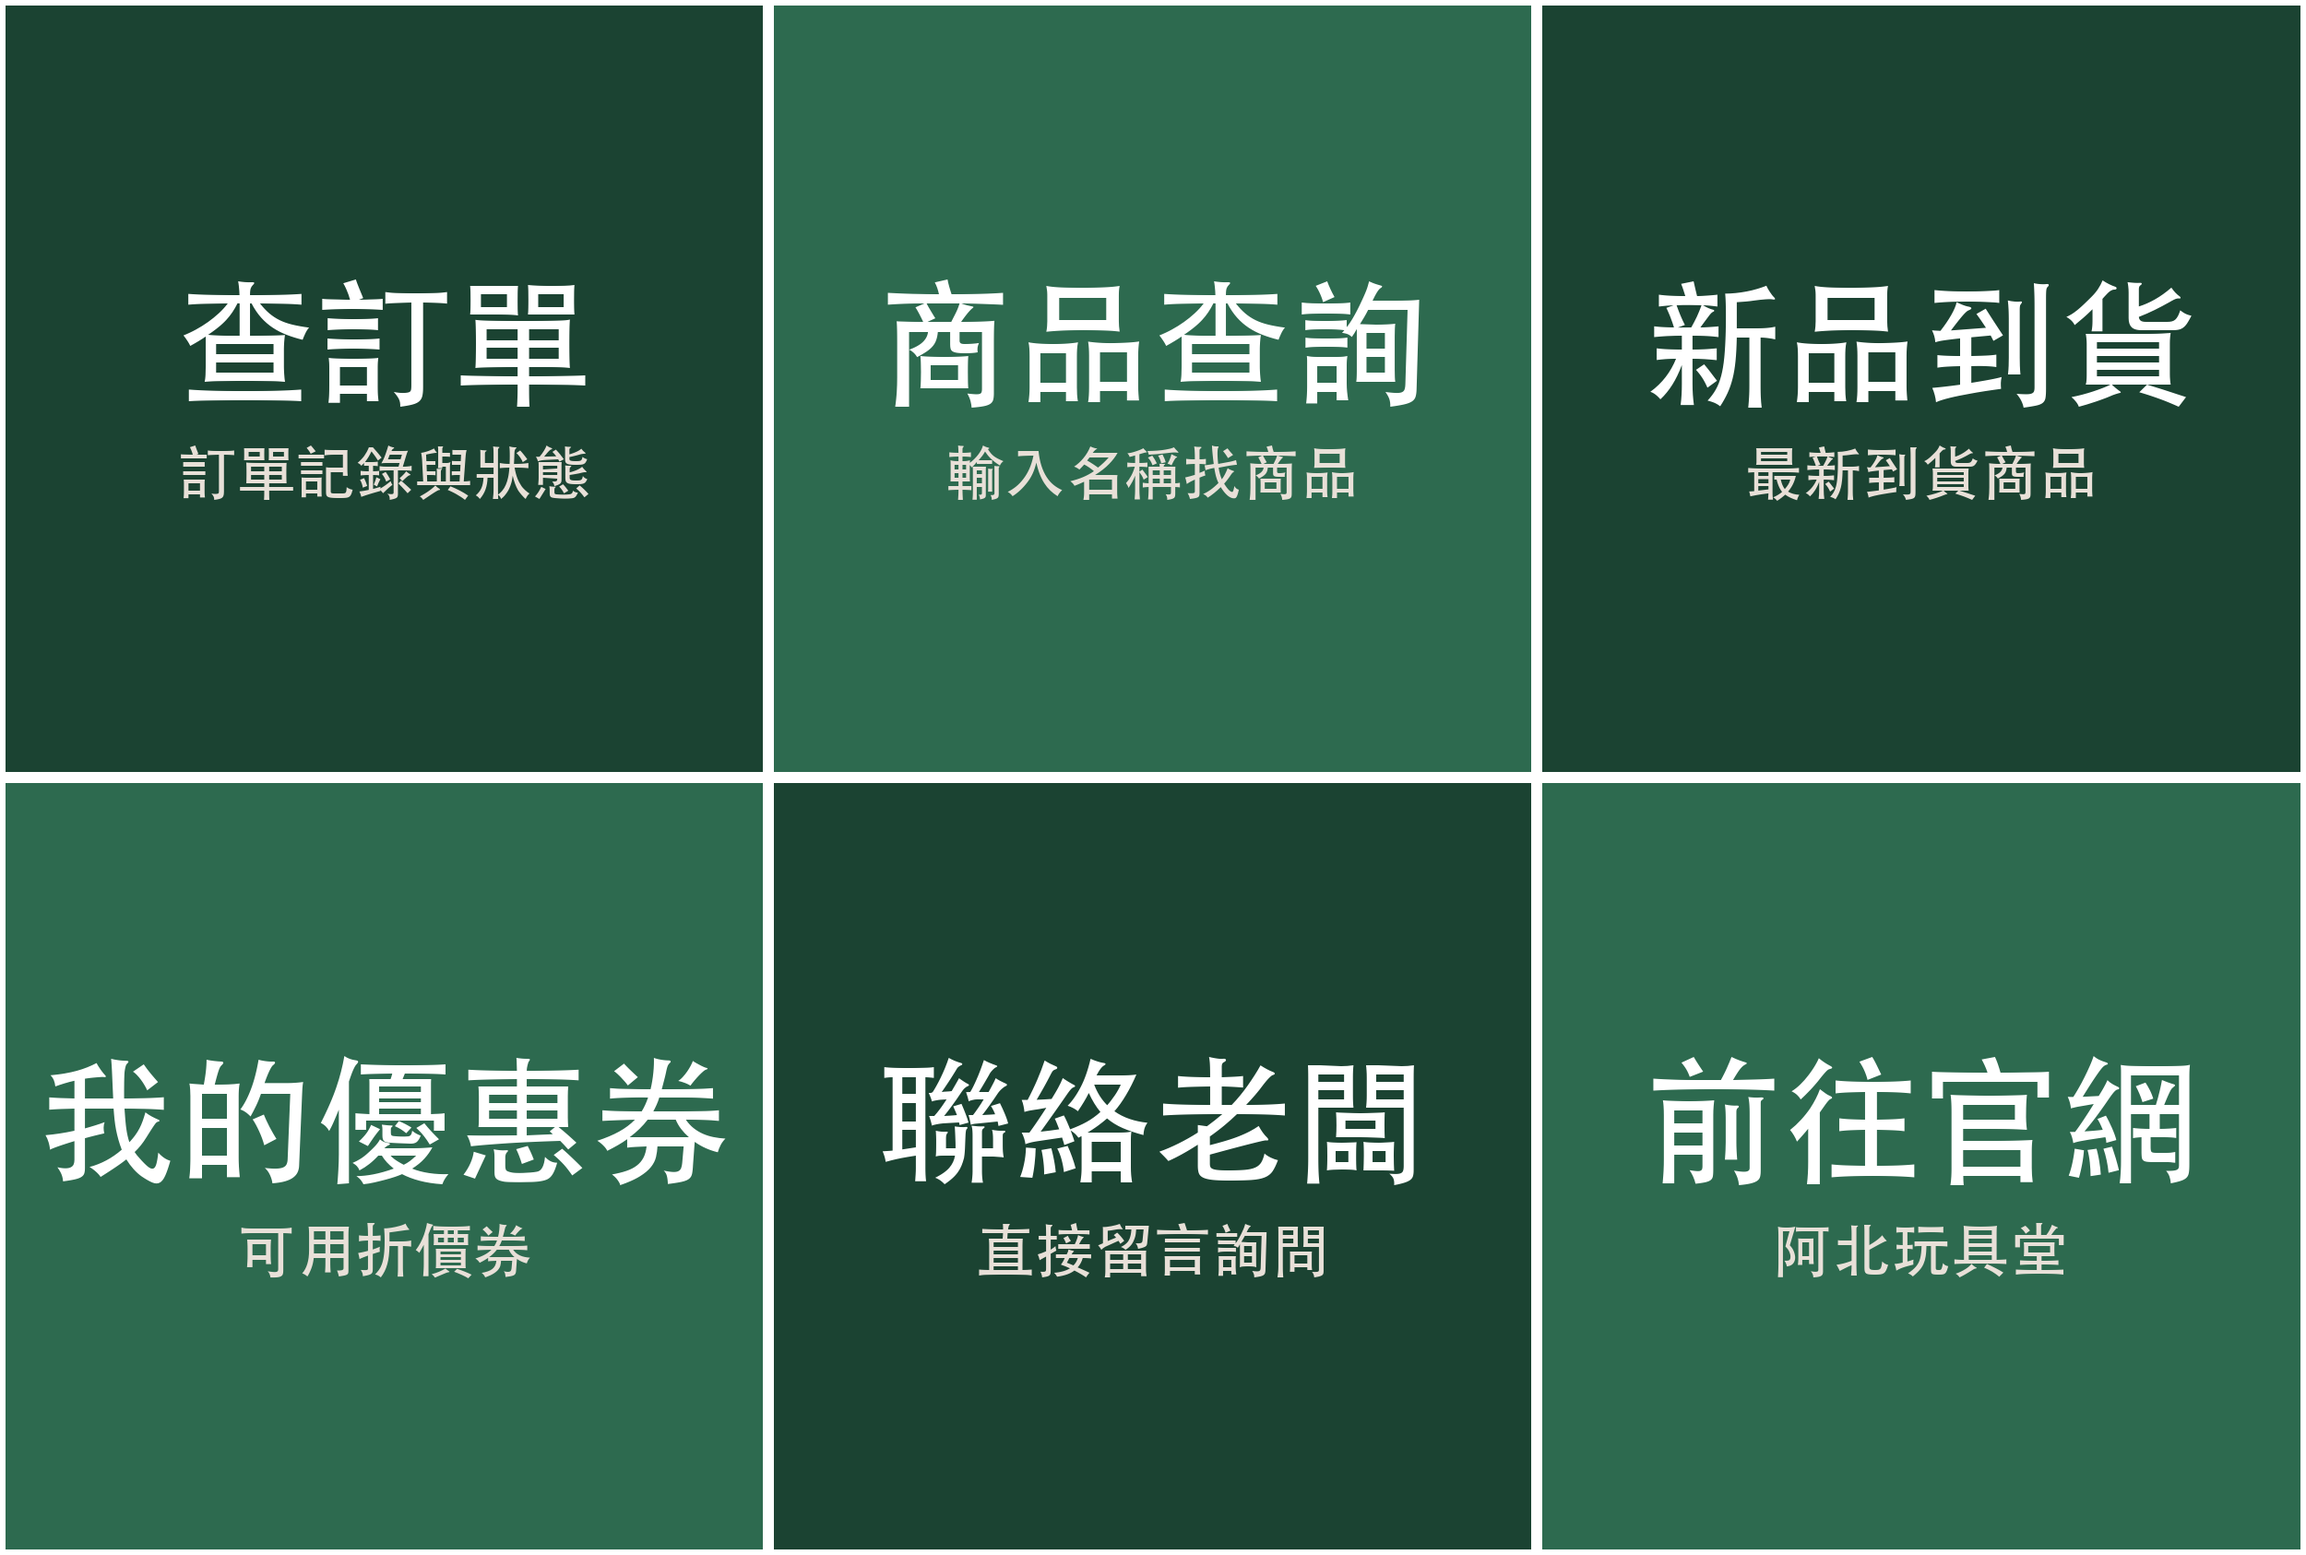
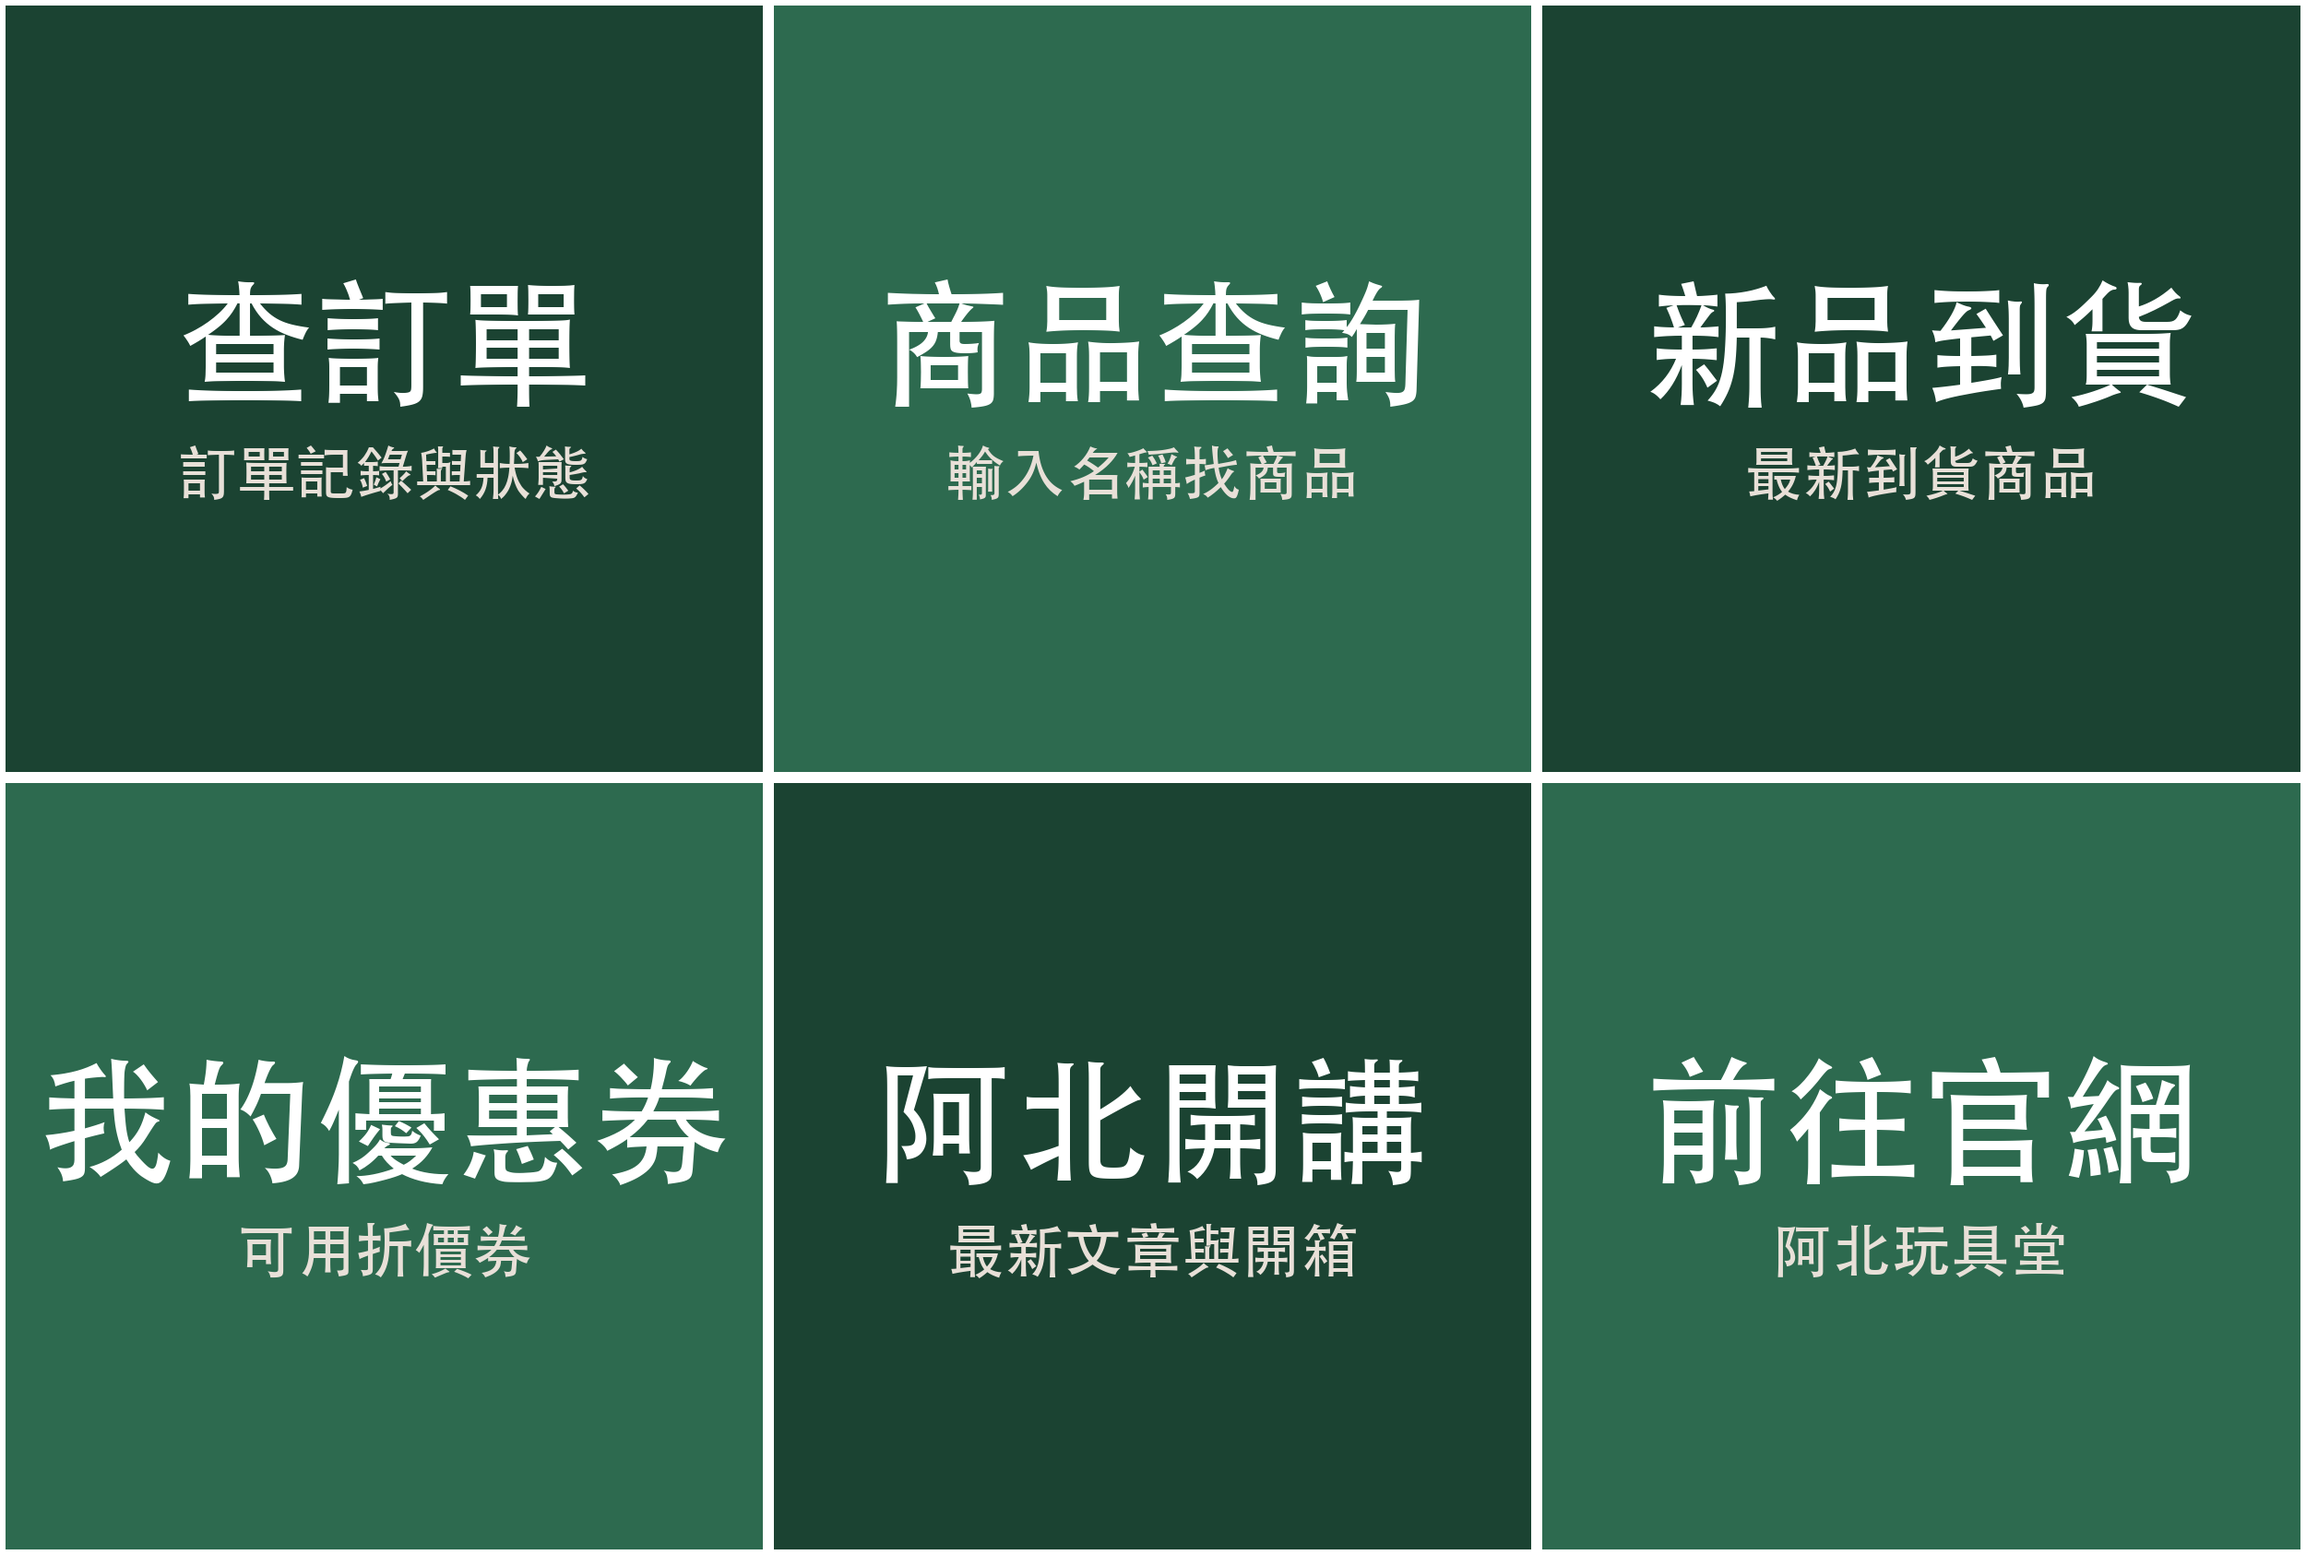
menu: 聯絡老闆 cell becomes 阿北開講 (latest blog posts as cards)
最新文章/部落格/阿北開講/blog keywords reply the 5 newest posts as cards
(cover, title, date, excerpt, 閱讀全文) + a 看全部 card. Contact stays
natural — typing in the chat always reached the owner; 我想詢問 keyword
still answered.

Changed region(s): [[0.3744, 0.6785, 0.624, 0.8327]]

diff --git a/app.py b/app.py
@@ -5008,11 +5008,55 @@ def _reply_mod_intro(uid, reply_token):
     return True
 
 
+def _reply_blog_posts(uid, reply_token):
+    """阿北開講 menu tap -> latest blog posts as cards in the chat."""
+    import linepush
+    posts = get_blog_posts()[:5]
+    if not posts:
+        linepush.reply_text(reply_token,
+            f'文章即將上線，先逛逛商品吧：{SITE_URL}/products', line_user_id=uid)
+        return True
+    bubbles = []
+    for p in posts:
+        url = f"{SITE_URL}/blog/{p['slug']}"
+        excerpt = ' '.join((p.get('excerpt') or '').split())[:60]
+        b = {
+            'type': 'bubble', 'size': 'kilo',
+            'body': {'type': 'box', 'layout': 'vertical', 'spacing': 'sm',
+                     'contents': [
+                {'type': 'text', 'text': (p.get('title') or '文章')[:80],
+                 'weight': 'bold', 'size': 'sm', 'wrap': True},
+                {'type': 'text', 'text': p.get('date') or '',
+                 'size': 'xs', 'color': '#888888'},
+            ] + ([{'type': 'text', 'text': excerpt, 'size': 'xs',
+                   'color': '#666666', 'wrap': True}] if excerpt else [])},
+            'footer': {'type': 'box', 'layout': 'vertical', 'contents': [
+                {'type': 'button', 'style': 'primary', 'height': 'sm',
+                 'color': '#8B4513',
+                 'action': {'type': 'uri', 'label': '閱讀全文', 'uri': url}}]},
+        }
+        cover = p.get('cover') or ''
+        if cover:
+            if not cover.startswith('http'):
+                cover = SITE_URL + cover
+            b['hero'] = {'type': 'image', 'url': cover, 'size': 'full',
+                         'aspectRatio': '16:9', 'aspectMode': 'cover',
+                         'action': {'type': 'uri', 'uri': url}}
+        bubbles.append(b)
+    bubbles.append(_link_bubble('更多文章', '阿北開講：新品情報、開箱、宇宙故事',
+                                '看全部', f'{SITE_URL}/blog'))
+    linepush.reply_flex(reply_token, '阿北開講：最新文章', bubbles,
+                        line_user_id=uid)
+    return True
+
+
 def _handle_line_text(uid, text, reply_token):
     """Bot behavior for one inbound text message. Returns True when the bot
     replied (binding codes are handled separately in the webhook)."""
     import linepush
     t = (text or '').strip()
+    if t in ('最新文章', '部落格', '阿北開講', 'blog', 'Blog'):
+        return _reply_blog_posts(uid, reply_token)
     if t in ('查訂單', '訂單查詢', '我的訂單', '訂單'):
         return _reply_orders(uid, reply_token)
     if t in ('我的優惠券', '優惠券', '折價券'):

diff --git a/setup_richmenu.py b/setup_richmenu.py
@@ -39,8 +39,8 @@ GUEST_CELLS = [
      {"type": "uri", "uri": f"{SITE}/line/entry"}),
     ("查訂單", "訂單記錄與狀態",
      {"type": "message", "text": "查訂單"}),
-    ("聯絡老闆", "直接留言詢問",
-     {"type": "message", "text": "我想詢問"}),
+    ("阿北開講", "最新文章與開箱",
+     {"type": "message", "text": "最新文章"}),
     ("前往官網", "阿北玩具堂",
      {"type": "uri", "uri": SITE}),
 ]
@@ -54,8 +54,8 @@ MEMBER_CELLS = [
      {"type": "message", "text": "新品到貨"}),
     ("我的優惠券", "可用折價券",
      {"type": "message", "text": "我的優惠券"}),
-    ("聯絡老闆", "直接留言詢問",
-     {"type": "message", "text": "我想詢問"}),
+    ("阿北開講", "最新文章與開箱",
+     {"type": "message", "text": "最新文章"}),
     ("前往官網", "阿北玩具堂",
      {"type": "uri", "uri": SITE}),
 ]

diff --git a/tests/test_line_bot.py b/tests/test_line_bot.py
@@ -262,3 +262,13 @@ def test_tagsearch_spaced_tag_uri_encoded(app, monkeypatch):
     link_uri = bubbles[-1]['footer']['contents'][0]['action']['uri']
     assert ' ' not in link_uri
     assert 'Blood%20Angels' in link_uri
+
+
+def test_blog_posts_cards(app, monkeypatch):
+    sent = _capture(monkeypatch)
+    assert site._handle_line_text('U1', '最新文章', 'tok') is True
+    alt, bubbles = sent['flex']
+    assert '阿北開講' in alt
+    assert 'Hello' in str(bubbles[0])            # fixture blog post title
+    assert '/blog/hello' in str(bubbles[0])
+    assert '/blog' in str(bubbles[-1])           # 看全部 card
